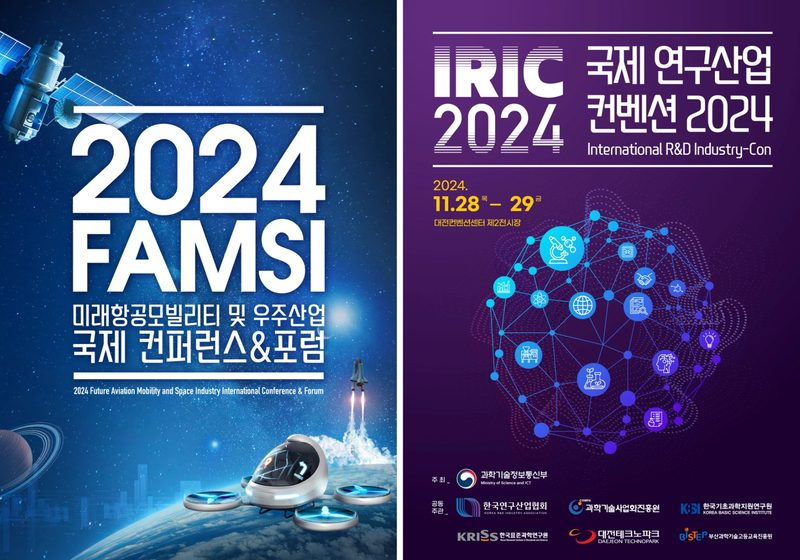
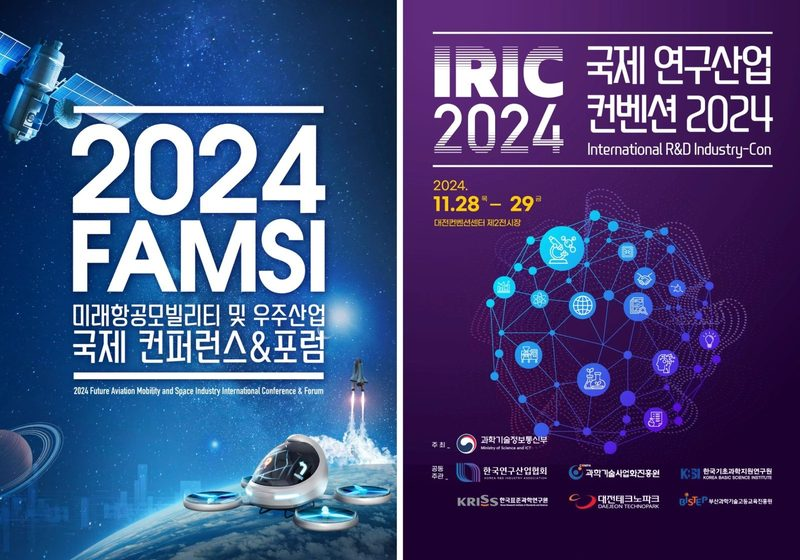
포스터·윈저 로고 위치 안쪽으로, 웹 미리보기 움직임 수정

Changed region(s): [[0.5312, 0.7589, 0.9688, 0.9714], [0.5625, 0.3339, 0.5938, 0.3946]]

diff --git a/data.js b/data.js
@@ -29,15 +29,15 @@ window.CHOUNGO_DATA = {
 
   projects: [
     {"slug": "web-kiumin", "title": "(주)키움인 홈페이지 리뉴얼", "client": "키움인", "category": "web", "type": "Web", "scope": ["웹 기획", "UI 디자인", "반응형 구축"], "description": "AI·디지털 교육 사회적기업 키움인의 홈페이지를 새로 기획하고 디자인했습니다. 교육 프로그램과 성과를 첫 화면에서 바로 보여주도록 구성했습니다.", "images": ["img/work/web-kiumin.jpg"]},
-    {"slug":  "w90", "title":  "마이멜로디 코스메틱 패키지", "client":  "마이멜로디 코스메틱", "category":  "print", "type":  "PACKAGE", "scope":  ["패키지 디자인", "캐릭터 그래픽", "라인업 전개"], "description":  "캐릭터 라이선스 코스메틱 라인의 튜브·자·스틱·펜슬 패키지를 하나의 톤으로 디자인했습니다.", "images":  ["img/work/p90-0.jpg"]},
-    {"slug":  "w91", "title":  "FAMSI · IRIC 2024 컨퍼런스 포스터", "client":  "과학기술정보통신부 외", "category":  "print", "type":  "POSTER", "scope":  ["키비주얼", "포스터", "행사 그래픽"], "description":  "미래항공모빌리티·우주산업 컨퍼런스와 국제 연구산업 컨벤션의 키비주얼과 포스터입니다.", "images":  ["img/work/p91-0.jpg"]},
-    {"slug":  "w92", "title":  "컬처테크 챌린지 · 로켓십 데모데이 포스터", "client":  "창업진흥원 외", "category":  "print", "type":  "POSTER", "scope":  ["키비주얼", "포스터", "행사 그래픽"], "description":  "스타트업 데모데이 행사의 키비주얼과 포스터를 디자인했습니다.", "images":  ["img/work/p92-0.jpg"]},
-    {"slug":  "w93", "title":  "CAU LINC 3.0 · 강원 정보보호 컨퍼런스 포스터", "client":  "중앙대학교 · 강원특별자치도 외", "category":  "print", "type":  "POSTER", "scope":  ["키비주얼", "포스터", "정보 디자인"], "description":  "경진대회와 컨퍼런스의 일정·시상·참가 정보를 한눈에 읽히도록 정리한 포스터입니다.", "images":  ["img/work/p93-0.jpg"]},
-    {"slug":  "w94", "title":  "윈저 온더락 광고", "client":  "윈저", "category":  "print", "type":  "ADVERTISING", "scope":  ["광고 디자인", "합성 · 리터칭", "카피 레이아웃"], "description":  "120초 온더락 메시지를 위스키 물줄기 타이포로 표현한 지면 광고입니다.", "images":  ["img/work/p94-0.jpg"]},
+    {"slug": "w90", "title": "마이멜로디 코스메틱 패키지", "client": "마이멜로디 코스메틱", "category": "print", "type": "PACKAGE", "scope": ["패키지 디자인", "캐릭터 그래픽", "라인업 전개"], "description": "캐릭터 라이선스 코스메틱 라인의 튜브·자·스틱·펜슬 패키지를 하나의 톤으로 디자인했습니다.", "images": ["img/work/p90-0.jpg"]},
+    {"slug": "w91", "cover": "img/feat/09_famsi_iric.jpg", "title": "FAMSI · IRIC 2024 컨퍼런스 포스터", "client": "과학기술정보통신부 외", "category": "print", "type": "POSTER", "scope": ["키비주얼", "포스터", "행사 그래픽"], "description": "미래항공모빌리티·우주산업 컨퍼런스와 국제 연구산업 컨벤션의 키비주얼과 포스터입니다.", "images": ["img/work/p91-0.jpg"]},
+    {"slug": "w92", "title": "컬처테크 챌린지 · 로켓십 데모데이 포스터", "client": "창업진흥원 외", "category": "print", "type": "POSTER", "scope": ["키비주얼", "포스터", "행사 그래픽"], "description": "스타트업 데모데이 행사의 키비주얼과 포스터를 디자인했습니다.", "images": ["img/work/p92-0.jpg"]},
+    {"slug": "w93", "title": "CAU LINC 3.0 · 강원 정보보호 컨퍼런스 포스터", "client": "중앙대학교 · 강원특별자치도 외", "category": "print", "type": "POSTER", "scope": ["키비주얼", "포스터", "정보 디자인"], "description": "경진대회와 컨퍼런스의 일정·시상·참가 정보를 한눈에 읽히도록 정리한 포스터입니다.", "images": ["img/work/p93-0.jpg"]},
+    {"slug": "w94", "cover": "img/feat/10_windsor.jpg", "title": "윈저 온더락 광고", "client": "윈저", "category": "print", "type": "ADVERTISING", "scope": ["광고 디자인", "합성 · 리터칭", "카피 레이아웃"], "description": "120초 온더락 메시지를 위스키 물줄기 타이포로 표현한 지면 광고입니다.", "images": ["img/work/p94-0.jpg"]},
     {"slug": "web-hyuckjin", "title": "혁진환경엔지니어링 홈페이지", "client": "혁진환경엔지니어링", "category": "web", "type": "Web", "scope": ["웹 기획", "UI 디자인", "다국어 구축"], "description": "폐기물 에너지화 플랜트 기업의 글로벌 홈페이지입니다. 기술과 해외 프로젝트를 한눈에 보여주도록 영문 중심으로 설계했습니다.", "images": ["img/work/web-hyuckjin.jpg"]},
-    {"slug":  "w95", "title":  "참이슬 · 하이트 · 맥스 패키지", "client":  "하이트진로", "category":  "print", "type":  "PACKAGE", "scope":  ["패키지 디자인", "멀티팩", "제작"], "description":  "소주·맥주 제품의 라벨과 멀티팩 패키지를 디자인하고 제작했습니다.", "images":  ["img/work/p95-0.jpg"]},
-    {"slug":  "w96", "title":  "김성환展 '시대의 창을 열다' 전시 디자인", "client":  "김성환展", "category":  "display", "type":  "EXHIBITION", "scope":  ["전시 기획", "공간 그래픽", "제작 · 설치"], "description":  "고바우 김성환 화백 전시의 입구 월과 연대기 그래픽, 전시 공간을 디자인했습니다.", "images":  ["img/work/p96-0.jpg"]},
-    {"slug":  "w97", "title":  "삼성전자 노트북 브로슈어", "client":  "삼성전자", "category":  "print", "type":  "EDITORIAL", "scope":  ["편집 디자인", "라운드 재단", "인쇄"], "description":  "기기 형태를 닮은 라운드 재단 브로슈어로 제품의 스타일을 전달했습니다.", "images":  ["img/work/p97-0.jpg"]},
+    {"slug": "w95", "title": "참이슬 · 하이트 · 맥스 패키지", "client": "하이트진로", "category": "print", "type": "PACKAGE", "scope": ["패키지 디자인", "멀티팩", "제작"], "description": "소주·맥주 제품의 라벨과 멀티팩 패키지를 디자인하고 제작했습니다.", "images": ["img/work/p95-0.jpg"]},
+    {"slug": "w96", "title": "김성환展 '시대의 창을 열다' 전시 디자인", "client": "김성환展", "category": "display", "type": "EXHIBITION", "scope": ["전시 기획", "공간 그래픽", "제작 · 설치"], "description": "고바우 김성환 화백 전시의 입구 월과 연대기 그래픽, 전시 공간을 디자인했습니다.", "images": ["img/work/p96-0.jpg"]},
+    {"slug": "w97", "title": "삼성전자 노트북 브로슈어", "client": "삼성전자", "category": "print", "type": "EDITORIAL", "scope": ["편집 디자인", "라운드 재단", "인쇄"], "description": "기기 형태를 닮은 라운드 재단 브로슈어로 제품의 스타일을 전달했습니다.", "images": ["img/work/p97-0.jpg"]},
     {"slug": "w9", "cover": "img/feat/03_samsung_gear.jpg", "title": "삼성전자 기어 웨어러블", "client": "삼성전자", "category": "pop", "type": "POP", "scope": ["POP 디자인", "구조 설계", "제작"], "description": "매장 판매대에서 제품의 기능을 바로 보여주는 POP 집기입니다. 그래픽과 구조를 함께 설계하고 자체 제작센터에서 제작했습니다.", "images": ["img/work/p09-0.jpg", "img/work/p10-0.jpg"]},
     {"slug": "w11", "title": "삼성전자 갤럭시 탭 S4", "client": "삼성전자", "category": "pop", "type": "POP", "scope": ["POP 디자인", "구조 설계", "제작"], "description": "매장 판매대에서 제품의 기능을 바로 보여주는 POP 집기입니다. 그래픽과 구조를 함께 설계하고 자체 제작센터에서 제작했습니다.", "images": ["img/work/p11-0.jpg", "img/work/p11-1.jpg", "img/work/p11-2.jpg"]},
     {"slug": "web-atlas", "title": "The Classical Atlas", "client": "개인 프로젝트", "category": "web", "type": "Web", "scope": ["웹 기획", "UI 디자인", "인터랙티브 구축"], "description": "클래식 음악을 장르와 작곡가, 연주로 탐색하는 음악 아카이브 사이트입니다. 어두운 바탕 위에 앨범 아트와 모션 그래픽으로 장르를 구분했습니다.", "images": ["img/work/web-atlas.jpg"]},

diff --git a/app.js b/app.js
@@ -33,12 +33,18 @@
   /* ---------------- Shared fragments ---------------- */
   var KB = window.CHOUNGO_KB || [];
   var tileIO = "IntersectionObserver" in window ? new IntersectionObserver(function (es) {
-    es.forEach(function (e) { e.target.classList.toggle("live", e.isIntersecting); });
+    es.forEach(function (e) { e.target.classList.toggle("live", e.isIntersecting); if (e.isIntersecting && e.target.classList.contains("pan")) setPan(e.target); });   // re-measure once visible (a cached image can be measured before layout)
   }, { rootMargin: "120px 0px" }) : null;
   function setPan(t) {
     var im = t.querySelector("img"); if (!im) return;
-    var go = function () { var d = im.offsetHeight - t.clientHeight; t.style.setProperty("--pan", (d > 0 ? -d : 0) + "px"); };
-    if (im.complete) go(); else im.addEventListener("load", go, { once: true });
+    var go = function () {
+      if (!im.offsetHeight || !t.clientHeight) return;
+      var d = im.offsetHeight - t.clientHeight, v = (d > 0 ? -d : 0) + "px";
+      if (t.style.getPropertyValue("--pan") === v) return;
+      t.style.setProperty("--pan", v);
+      im.style.animation = "none"; void im.offsetWidth; im.style.animation = "";   // Safari keeps the old value inside a running animation, so restart it
+    };
+    go(); im.addEventListener("load", go, { once: true });
   }
   function watchTiles(root) {
     (root || document).querySelectorAll(".tile").forEach(function (t) {

diff --git a/index.html b/index.html
@@ -572,6 +572,6 @@ form.brief { display: grid; gap: 28px; }
   <div class="lb-bot inner"><span class="label count" id="lbCount"></span><span class="label" style="color:var(--grey)">Sample visual</span></div>
 </div>
 
-<script src="data.js?v=20261121190734"></script>
-<script src="app.js?v=20261121190734"></script>
+<script src="data.js?v=20261121192938"></script>
+<script src="app.js?v=20261121192938"></script>
 </html>
